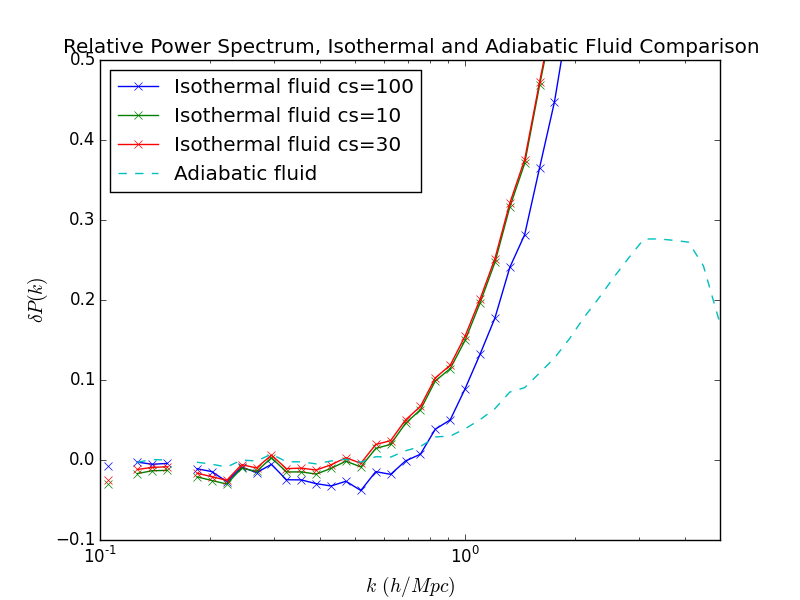
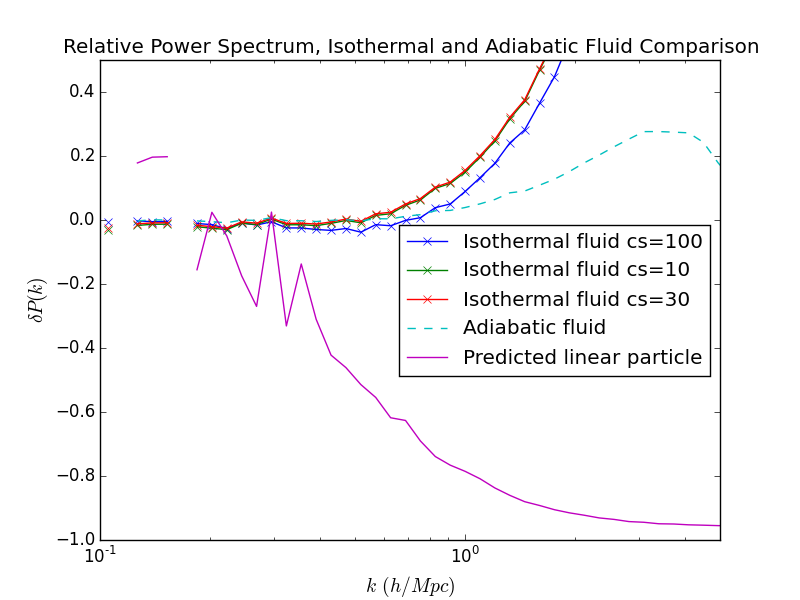
Added linear particle predictions for zstart=100 results.

diff --git a/plots/isothermal/isothermal_fluid_low_adiabatic_normalized_particle_minpressure.py b/plots/isothermal/isothermal_fluid_low_adiabatic_normalized_particle_minpressure.py
@@ -9,14 +9,14 @@ results = os.listdir(result_dir)
 isothermalpattern = re.compile(r'_isothermal(\d+)')
 npattern = re.compile(r'_n(\d+)')
 
+base = 'particle_b100_n1024_t0.005_h2_z100.out'
+kvalues_base, ps_base = np.loadtxt(result_dir+base, unpack=True)
+
 simtypes = ['fluid']
 for simtype in simtypes:
     params = [simtype,'b100','n1024','t0.005','h2','isothermal', 'z100']
     filenames = [filename for filename in results if all(param in filename for param in params)]
     filenames.append('fluid_b100_n1024_t0.005_h2_z100.out')
-    base = 'particle_b100_n1024_t0.005_h2_z100.out'
-    
-    kvalues_base, ps_base = np.loadtxt(result_dir+base, unpack=True)
 
     for filename in filenames:
         if 'isothermal' in filename and 'minpressure16' in filename:
@@ -32,8 +32,13 @@ for simtype in simtypes:
             ps = (ps - ps_base)/ps_base
             plt.semilogx(kvalues, ps, '--', label='Adiabatic fluid')
 
+linear_kvalues, linear_ps = np.loadtxt(result_dir+'particle_b100_n1024_t0.005_h2_z100_z100.out', unpack=True)
+linear_ps*=5983.9
+linear_ps = (linear_ps - ps_base)/ps_base
+plt.semilogx(linear_kvalues, linear_ps, '-', label='Predicted linear particle')
+
 plt.xlim([1e-1,5e0])
-plt.ylim([-0.1,0.5])
+plt.ylim([-1.0,0.5])
 plt.xlabel('$k \, (h/Mpc)$', fontsize=14)
 plt.ylabel('$\delta P(k)$', fontsize=14)
 plt.title('Relative Power Spectrum, Isothermal and Adiabatic Fluid Comparison')
